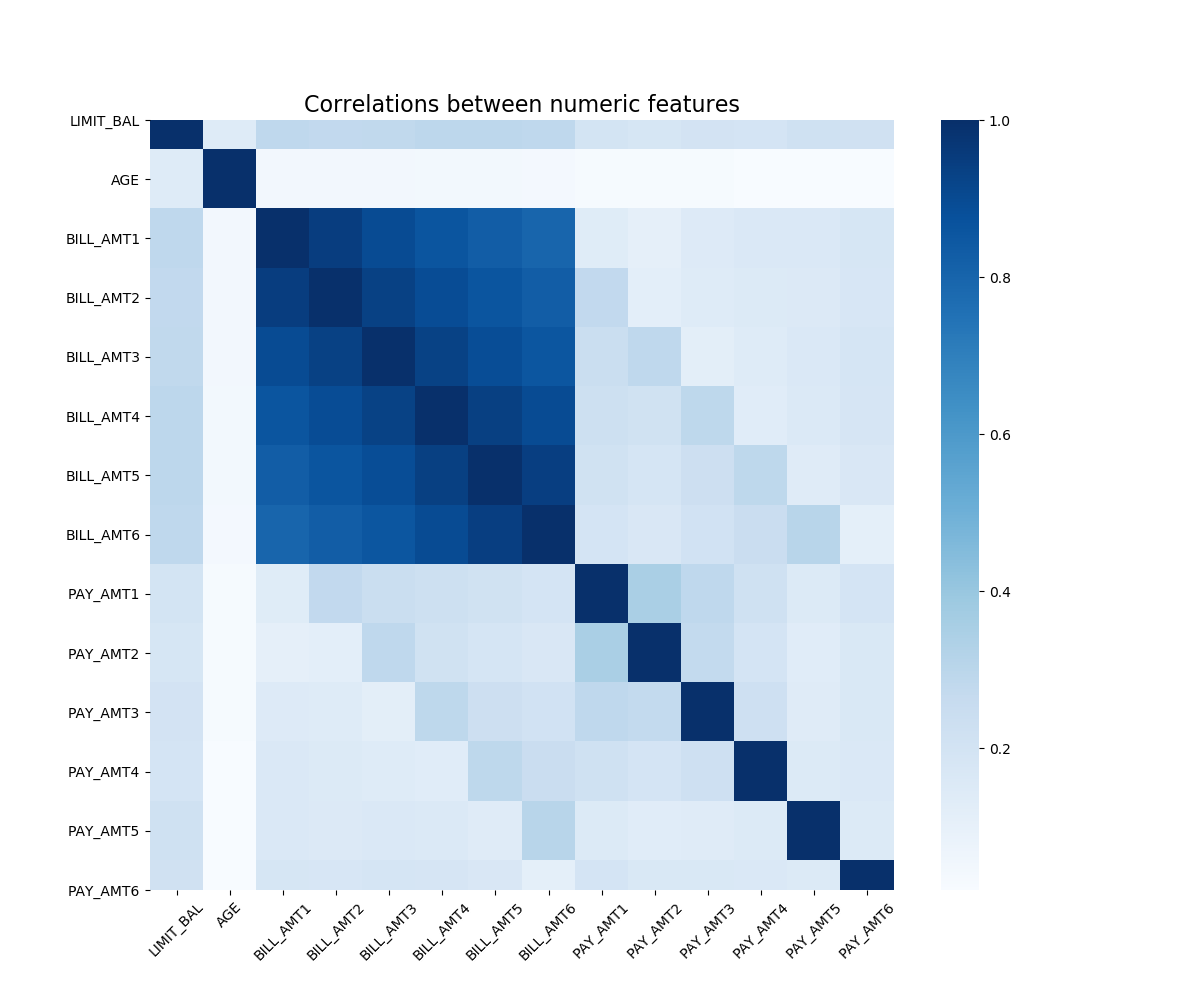
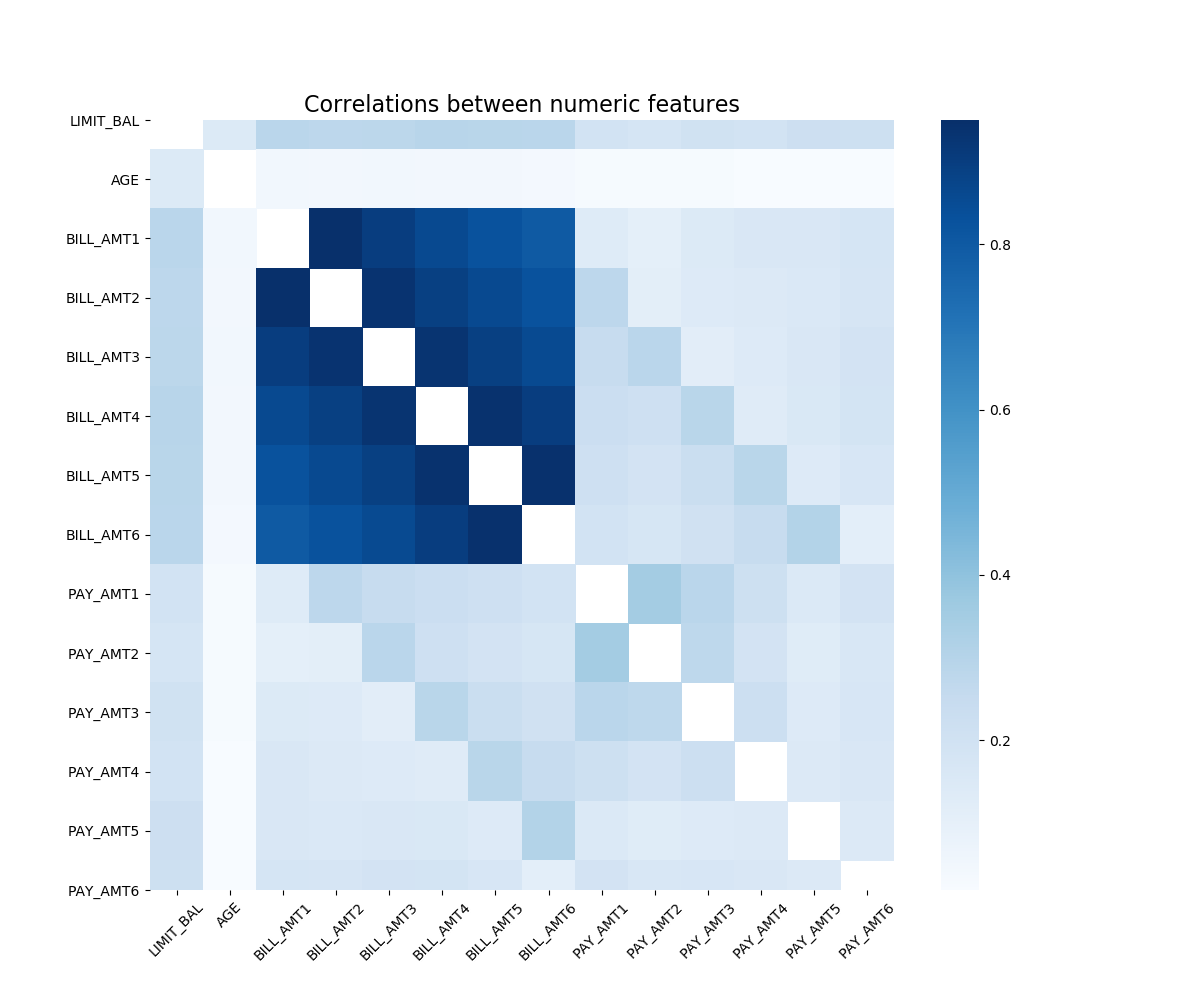
update plots and script for voilin yscale, heatmap diagonal

Changed region(s): [[0.1233, 0.093, 0.7708, 0.899]]

diff --git a/src/eda_plots.py b/src/eda_plots.py
@@ -14,6 +14,7 @@ Examples: python src/eda_plots.py --filepath=data/cleaned-credit-default-data.cs
 '''
 
 import pandas as pd
+import numpy as np
 from sklearn.model_selection import train_test_split
 import altair as alt
 import seaborn as sns
@@ -53,6 +54,9 @@ def main(filepath, outdir):
         
     #Numeric features correlations
     corr = X_train[numeric_features].corr()
+    #Set diagonal corretion to NaN
+    for i in range(len(corr)):
+        corr.iloc[i, i] = np.nan
     plt.figure(figsize=(12,10))
     num_corr_chart = sns.heatmap(corr, cmap=plt.cm.Blues)
     plt.title('Correlations between numeric features', size=16)
@@ -111,6 +115,7 @@ def voilinplot(data, cat):
     """
     g = sns.FacetGrid(data, col=cat, col_wrap=4, height=5, sharey=False, size=3)
     g.map(sns.violinplot, 'DEFAULT_NEXT_MONTH', 'value');
+    g.set(yscale='symlog', ylabel='Symlog value')
     
     return g
     
